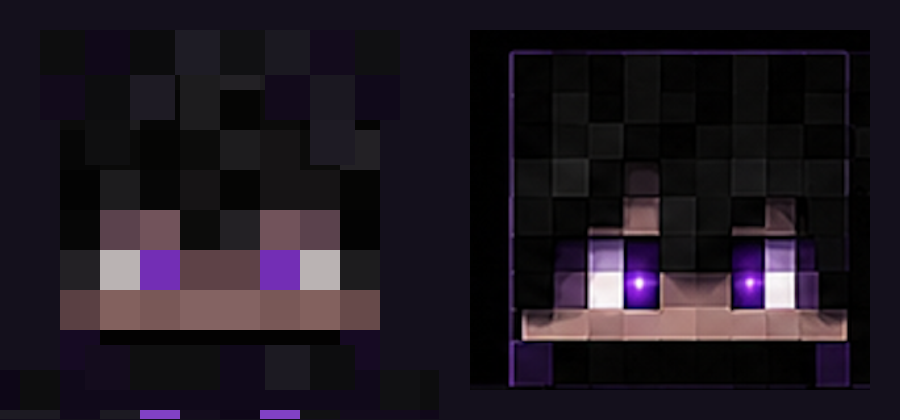
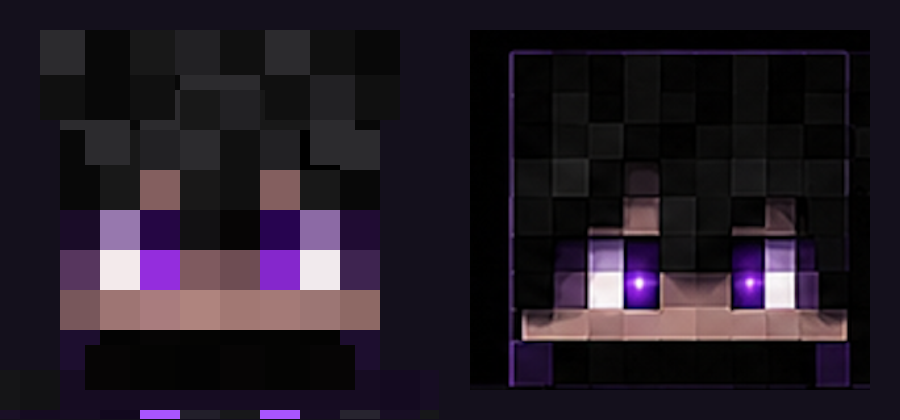
Skin Sombra Roxa: rosto com olhos 2x2 e cores bloco a bloco da referencia
Claude-Session: https://claude.ai/code/session_01Vzt37KYgrEvBbcVjWKzEed

diff --git a/tools/gerar_skin_sombra_roxa.py b/tools/gerar_skin_sombra_roxa.py
@@ -54,31 +54,23 @@ H = caixa(0, 0, 8, 8, 8)
 for f, (x, y, w, h) in H.items():
     preto(x, y, w, h)
 fx, fy = H["frente"][:2]
-# rosto, com as cores tiradas pixel a pixel da referência:
-# cabelo até a linha 4 (franja entre os olhos), olhos com ponto branco por fora e roxo por
-# dentro, brilho roxo em volta, uma faixa de pele quente e a máscara preta embaixo
-CAB = [(4, 4, 4), (9, 8, 8), (13, 13, 12), (22, 21, 21), (29, 27, 28), (7, 7, 6), (16, 16, 15), (38, 37, 40), (46, 44, 48)]
+# rosto: cada bloco com a cor tirada da referência do jogador (contados um a um).
+# Olhos em 2x2: lilás e roxo escuro em cima; BRANCO por fora e roxo forte por dentro embaixo.
+CAB = [(0, 0, 0), (8, 8, 8), (8, 8, 8), (16, 16, 16), (16, 16, 16), (24, 24, 24), (34, 33, 36), (44, 43, 46)]
+h = None
 ROSTO = [
-    "hhhhhhhh",
-    "hhhhhhhh",
-    "hhhhhhhh",
-    "hhhHhhHh",
-    "hGghhgGh",
-    "hWOssOWh",
-    "ABCDDCBE",
-    "MkkkkkkM",
+    [h, h, h, h, h, h, h, h],
+    [h, h, h, h, h, h, h, h],
+    [h, h, h, h, h, h, h, h],
+    [h, h, (132, 95, 95), (25, 24, 24), h, (132, 95, 95), h, h],                                   # pele entre as mechas
+    [(26, 12, 40), (151, 120, 174), (37, 6, 68), (18, 17, 19), (6, 5, 5), (39, 4, 80), (140, 106, 165), (32, 12, 51)],
+    [(87, 54, 94), (243, 234, 235), (148, 45, 221), (127, 90, 95), (110, 77, 83), (133, 39, 204), (241, 234, 237), (62, 36, 80)],
+    [(120, 87, 91), (158, 117, 115), (169, 124, 126), (175, 132, 126), (162, 120, 115), (164, 122, 119), (156, 118, 116), (142, 105, 101)],
+    [(29, 14, 47), (3, 3, 3), (6, 5, 5), (4, 4, 3), (3, 3, 3), (4, 4, 3), (3, 3, 2), (29, 14, 47)],
 ]
-CORES = {
-    "G": (118, 86, 100), "g": (148, 108, 118),
-    "W": (242, 232, 233),
-    "O": (150, 60, 235),
-    "s": (122, 86, 92),
-    "A": (117, 84, 87), "B": (171, 126, 122), "C": (157, 115, 114), "D": (172, 129, 128), "E": (134, 97, 97),
-    "M": (29, 14, 46), "k": (4, 3, 3), "H": (29, 27, 28),
-}
 for j, linha in enumerate(ROSTO):
-    for i, ch in enumerate(linha):
-        set_(fx + i, fy + j, random.choice(CAB) if ch == "h" else CORES[ch])
+    for i, cor in enumerate(linha):
+        set_(fx + i, fy + j, random.choice(CAB) if cor is None else cor)
 # laterais: cabelo, pele perto do rosto na altura da bochecha, máscara embaixo
 for lado in ("dir", "esq"):
     x, y, w, h = H[lado]
@@ -95,25 +87,30 @@ for i in range(1, 7):
     set_(x + i, y + 6, NEON)                                        # faixa roxa amarrada na nuca
 set_(x + 3, y + 7, NEON); set_(x + 4, y + 7, NEON_C)               # nó da faixa
 
+def cabelo():
+    """Preto do cabelo da referência (mais escuro que o do casaco)."""
+    return random.choice(CAB) + (255,)
+
+
 # camada de cima da cabeça: mechas do cabelo saindo da frente e dos lados
 C = caixa(32, 0, 8, 8, 8)
 cx, cy = C["frente"][:2]
 for i, comp in enumerate([2, 3, 2, 1, 1, 2, 3, 2]):                  # franja irregular
     for j in range(comp):
-        px[cx + i, cy + j] = ruido()
+        px[cx + i, cy + j] = cabelo()
 for lado in ("dir", "esq"):
     x, y, w, h = C[lado]
     for i in range(w):
         for j in range(random.choice([2, 3, 3, 4])):
-            px[x + i, y + j] = ruido()
+            px[x + i, y + j] = cabelo()
 x, y, w, h = C["topo"]
 for i in range(w):
     for j in range(h):
         if random.random() < 0.35:
-            px[x + i, y + j] = ruido()
+            px[x + i, y + j] = cabelo()
 # máscara saindo um pouco do rosto (volume), só na parte de baixo
 for i in range(1, 7):
-    px[cx + i, cy + 7] = ruido()
+    px[cx + i, cy + 7] = random.choice([(3, 3, 3), (6, 5, 5), (4, 4, 3)]) + (255,)   # máscara preta
 
 # ============================== CORPO
 B = caixa(16, 16, 8, 12, 4)
